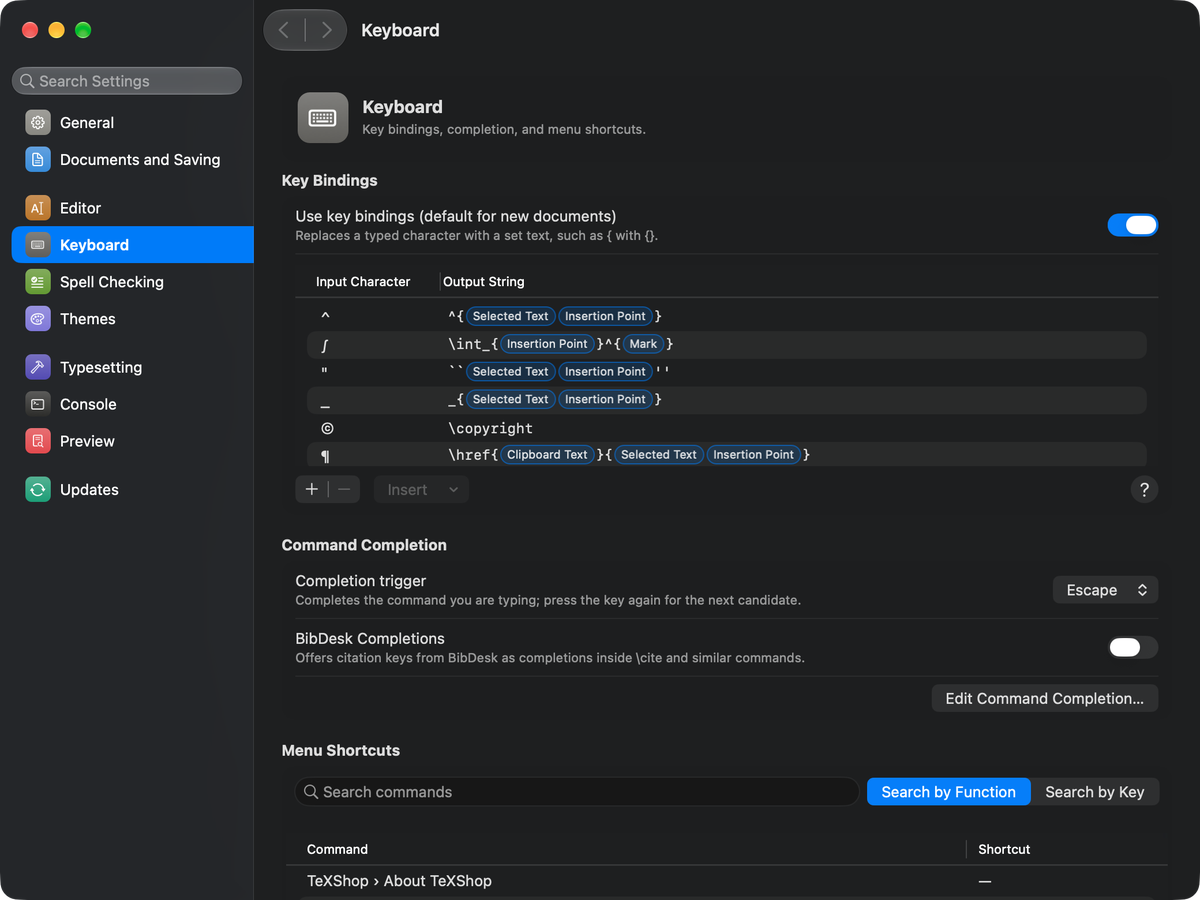
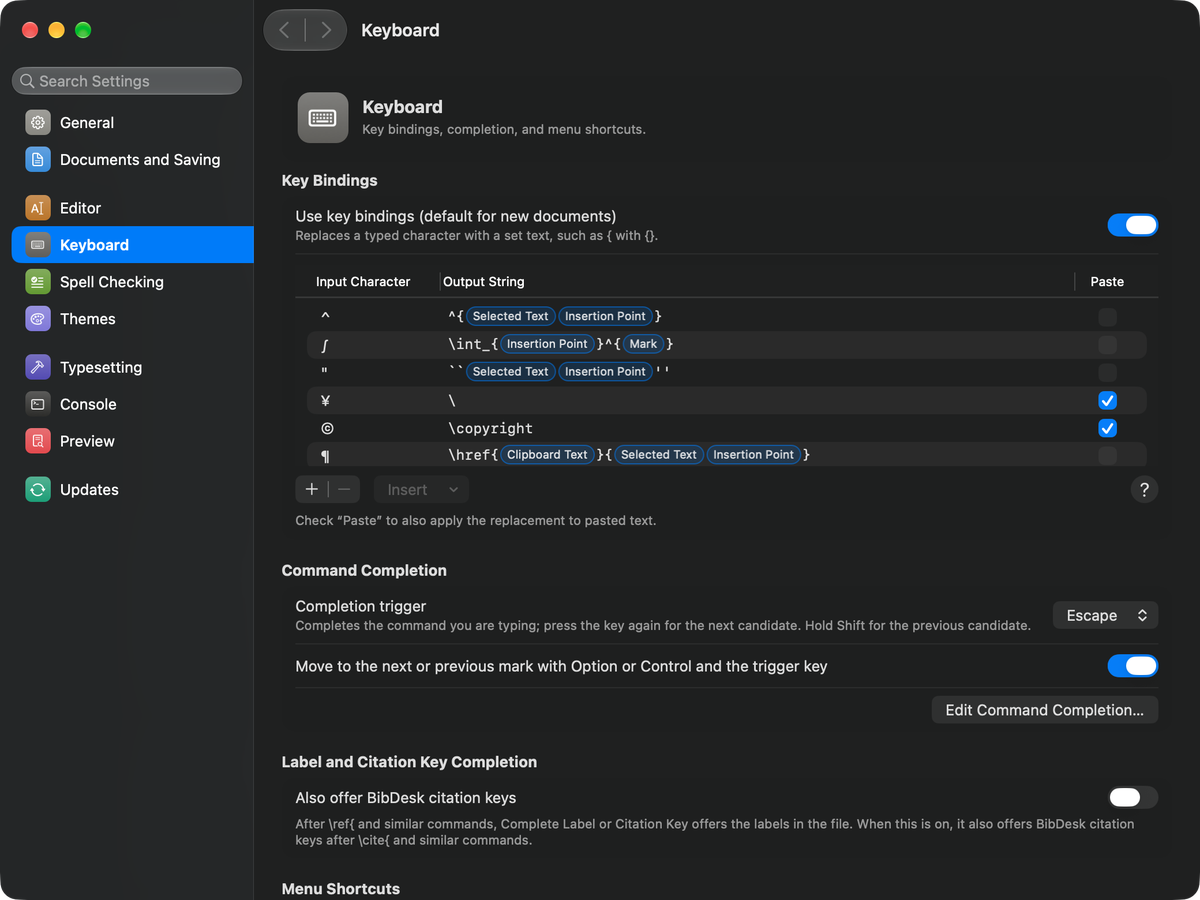
Retake the key bindings pictures of What's New with the Paste column
The list in Settings › Keyboard now has a Paste column and a note under it.

diff --git a/website/whats-new-ja.html b/website/whats-new-ja.html
@@ -11,7 +11,7 @@
 <nav class="whats-new-contents" aria-label="目次"><ul><li><a href="#settings">新しく設計し直された設定画面</a></li><li><a href="#shortcuts">あらゆるキーバインドをカスタマイズ</a></li><li><a href="#spell-checking">LaTeXの構文を考慮するスペルチェック</a></li><li><a href="#find-panel">新しい検索パネル</a></li><li><a href="#multiple-replace">複数置換</a></li><li><a href="#texroot-search">同じ親ファイルを持つファイル群の一括検索・置換</a></li><li><a href="#status-bar">ステータスバーを新設</a></li><li><a href="#detect-paths">TeXとGhostscriptのパスを自動で設定</a></li><li><a href="#engine-profiles">エンジンのプロファイル機能</a></li><li><a href="#line-numbers">行番号で行を選択</a></li><li><a href="#look">新しいアイコン</a></li><li><a href="#other-changes">そのほかの変更</a></li><li><a href="#changes-in-behavior">以前の版から変わった動き</a></li></ul></nav>
 <section class="feature-list" aria-label="主な変更">
 <article class="feature" id="settings"><div class="feature-text"><h2>新しく設計し直された設定画面</h2><p>サイドバーと検索欄を備えた、新しい設定画面になりました。</p></div><figure><img class="shot-light" src="assets/whats-new/ja/settings.png" width="600" height="450" alt="分類のサイドバーと「一般」を示す設定画面"><img loading="lazy" class="shot-dark" src="assets/whats-new/ja/settings-dark.png" width="600" height="450" alt="分類のサイドバーと「一般」を示す設定画面"></figure></article>
-<article class="feature" id="shortcuts"><div class="feature-text"><h2>あらゆるキーバインドをカスタマイズ</h2><p>メニューとマクロのショートカット、キーバインドを自由にカスタマイズできます。</p></div><figure><img class="shot-light" src="assets/whats-new/ja/menu-shortcuts.png" width="600" height="450" alt="「タイプセット」で探したメニューのショートカットの一覧" loading="lazy"><img class="shot-dark" src="assets/whats-new/ja/menu-shortcuts-dark.png" width="600" height="450" alt="「タイプセット」で探したメニューのショートカットの一覧" loading="lazy"><figcaption>メニューのショートカット</figcaption></figure><figure><img class="shot-light" src="assets/whats-new/ja/key-bindings.png" width="600" height="450" alt="選択中の文字列や出力後のカーソル位置を入れたキーバインドの一覧" loading="lazy"><img class="shot-dark" src="assets/whats-new/ja/key-bindings-dark.png" width="600" height="450" alt="選択中の文字列や出力後のカーソル位置を入れたキーバインドの一覧" loading="lazy"><figcaption>キーバインド</figcaption></figure><figure><img class="shot-light" src="assets/release-notes/ja/macro-editor.png" width="585" height="452" alt="マクロの一覧をサイドバーに置き、プレースホルダを札で示すTeXのマクロと、Commandなしのショートカットを示すマクロエディタ" loading="lazy"><img class="shot-dark" src="assets/release-notes/ja/macro-editor-dark.png" width="585" height="452" alt="マクロの一覧をサイドバーに置き、プレースホルダを札で示すTeXのマクロと、Commandなしのショートカットを示すマクロエディタ" loading="lazy"><figcaption>マクロエディタ</figcaption></figure></article>
+<article class="feature" id="shortcuts"><div class="feature-text"><h2>あらゆるキーバインドをカスタマイズ</h2><p>メニューとマクロのショートカット、キーバインドを自由にカスタマイズできます。</p></div><figure><img class="shot-light" src="assets/whats-new/ja/menu-shortcuts.png" width="600" height="450" alt="「タイプセット」で探したメニューのショートカットの一覧" loading="lazy"><img class="shot-dark" src="assets/whats-new/ja/menu-shortcuts-dark.png" width="600" height="450" alt="「タイプセット」で探したメニューのショートカットの一覧" loading="lazy"><figcaption>メニューのショートカット</figcaption></figure><figure><img class="shot-light" src="assets/whats-new/ja/key-bindings.png" width="600" height="450" alt="選択中の文字列や出力後のカーソル位置を入れたキーバインドの一覧と、ペーストした文字列にも適用する行の「ペースト」のチェック" loading="lazy"><img class="shot-dark" src="assets/whats-new/ja/key-bindings-dark.png" width="600" height="450" alt="選択中の文字列や出力後のカーソル位置を入れたキーバインドの一覧と、ペーストした文字列にも適用する行の「ペースト」のチェック" loading="lazy"><figcaption>キーバインド</figcaption></figure><figure><img class="shot-light" src="assets/release-notes/ja/macro-editor.png" width="585" height="452" alt="マクロの一覧をサイドバーに置き、プレースホルダを札で示すTeXのマクロと、Commandなしのショートカットを示すマクロエディタ" loading="lazy"><img class="shot-dark" src="assets/release-notes/ja/macro-editor-dark.png" width="585" height="452" alt="マクロの一覧をサイドバーに置き、プレースホルダを札で示すTeXのマクロと、Commandなしのショートカットを示すマクロエディタ" loading="lazy"><figcaption>マクロエディタ</figcaption></figure></article>
 <article class="feature" id="spell-checking"><div class="feature-text"><h2>LaTeXの構文を考慮するスペルチェック</h2><p>TeXの命令や数式、コメントを飛ばして、本文だけをスペルチェックできます。</p></div><figure><img class="shot-light" src="assets/whats-new/ja/spell.png" width="519" height="560" alt="LaTeXのソースの本文で印の付いた2つの綴りの誤りと、「すべて変更」の欄に候補が入ったスペルのパネル" loading="lazy"><img class="shot-dark" src="assets/whats-new/ja/spell-dark.png" width="519" height="560" alt="LaTeXのソースの本文で印の付いた2つの綴りの誤りと、「すべて変更」の欄に候補が入ったスペルのパネル" loading="lazy"></figure></article>
 <article class="feature" id="find-panel"><div class="feature-text"><h2>新しい検索パネル</h2><p>正規表現を使える新しい検索パネルで、すべての一致を一覧にしたり、ハイライトしたりできます。</p></div><figure><img class="shot-light" src="assets/whats-new/ja/advanced-find.png" width="600" height="494" alt="正規表現を入れた新しい検索パネルと、すべての一致の一覧、ソースで強調された一致" loading="lazy"><img class="shot-dark" src="assets/whats-new/ja/advanced-find-dark.png" width="600" height="494" alt="正規表現を入れた新しい検索パネルと、すべての一致の一覧、ソースで強調された一致" loading="lazy"></figure></article>
 <article class="feature" id="multiple-replace"><div class="feature-text"><h2>複数置換</h2><p>検索と置換の組をいくつも登録して、まとめて置換できます。</p></div><figure><img class="shot-light" src="assets/release-notes/ja/multiple-replace.png" width="600" height="270" alt="検索と置換の組を4つ並べた複数置換の窓" loading="lazy"><img class="shot-dark" src="assets/release-notes/ja/multiple-replace-dark.png" width="600" height="269" alt="検索と置換の組を4つ並べた複数置換の窓" loading="lazy"></figure></article>

diff --git a/website/whats-new.html b/website/whats-new.html
@@ -11,7 +11,7 @@
 <nav class="whats-new-contents" aria-label="Contents"><ul><li><a href="#settings">A redesigned Settings window</a></li><li><a href="#shortcuts">Customize every shortcut and key binding</a></li><li><a href="#spell-checking">LaTeX-aware spell checking</a></li><li><a href="#find-panel">New Find panel</a></li><li><a href="#multiple-replace">Multiple Replace</a></li><li><a href="#texroot-search">Find and replace in all files with the same root file</a></li><li><a href="#status-bar">A new status bar</a></li><li><a href="#detect-paths">TeX and Ghostscript paths set automatically</a></li><li><a href="#engine-profiles">Engine profiles</a></li><li><a href="#line-numbers">Select lines by their numbers</a></li><li><a href="#look">New app icon</a></li><li><a href="#other-changes">Other changes</a></li><li><a href="#changes-in-behavior">Changes in behavior from earlier versions</a></li></ul></nav>
 <section class="feature-list" aria-label="Main changes">
 <article class="feature" id="settings"><div class="feature-text"><h2>A redesigned Settings window</h2><p>A new Settings window with a sidebar and a search field.</p></div><figure><img class="shot-light" src="assets/whats-new/en/settings.png" width="600" height="450" alt="The Settings window with its sidebar of categories and the General category"><img loading="lazy" class="shot-dark" src="assets/whats-new/en/settings-dark.png" width="600" height="450" alt="The Settings window with its sidebar of categories and the General category"></figure></article>
-<article class="feature" id="shortcuts"><div class="feature-text"><h2>Customize every shortcut and key binding</h2><p>Customize every menu and macro shortcut, and key bindings.</p></div><figure><img class="shot-light" src="assets/whats-new/en/menu-shortcuts.png" width="600" height="450" alt="The list of menu shortcuts found with Typeset" loading="lazy"><img class="shot-dark" src="assets/whats-new/en/menu-shortcuts-dark.png" width="600" height="450" alt="The list of menu shortcuts found with Typeset" loading="lazy"><figcaption>Menu shortcuts</figcaption></figure><figure><img class="shot-light" src="assets/whats-new/en/key-bindings.png" width="600" height="450" alt="The list of key bindings whose text holds the selected text and the insertion point" loading="lazy"><img class="shot-dark" src="assets/whats-new/en/key-bindings-dark.png" width="600" height="450" alt="The list of key bindings whose text holds the selected text and the insertion point" loading="lazy"><figcaption>Key bindings</figcaption></figure><figure><img class="shot-light" src="assets/release-notes/en/macro-editor.png" width="585" height="452" alt="The Macro Editor with its macros listed in a sidebar, a TeX macro whose placeholders are tokens, and a shortcut without Command" loading="lazy"><img class="shot-dark" src="assets/release-notes/en/macro-editor-dark.png" width="585" height="452" alt="The Macro Editor with its macros listed in a sidebar, a TeX macro whose placeholders are tokens, and a shortcut without Command" loading="lazy"><figcaption>Macro Editor</figcaption></figure></article>
+<article class="feature" id="shortcuts"><div class="feature-text"><h2>Customize every shortcut and key binding</h2><p>Customize every menu and macro shortcut, and key bindings.</p></div><figure><img class="shot-light" src="assets/whats-new/en/menu-shortcuts.png" width="600" height="450" alt="The list of menu shortcuts found with Typeset" loading="lazy"><img class="shot-dark" src="assets/whats-new/en/menu-shortcuts-dark.png" width="600" height="450" alt="The list of menu shortcuts found with Typeset" loading="lazy"><figcaption>Menu shortcuts</figcaption></figure><figure><img class="shot-light" src="assets/whats-new/en/key-bindings.png" width="600" height="450" alt="The list of key bindings whose text holds the selected text and the insertion point, with Paste checked for the rows also applied to pasted text" loading="lazy"><img class="shot-dark" src="assets/whats-new/en/key-bindings-dark.png" width="600" height="450" alt="The list of key bindings whose text holds the selected text and the insertion point, with Paste checked for the rows also applied to pasted text" loading="lazy"><figcaption>Key bindings</figcaption></figure><figure><img class="shot-light" src="assets/release-notes/en/macro-editor.png" width="585" height="452" alt="The Macro Editor with its macros listed in a sidebar, a TeX macro whose placeholders are tokens, and a shortcut without Command" loading="lazy"><img class="shot-dark" src="assets/release-notes/en/macro-editor-dark.png" width="585" height="452" alt="The Macro Editor with its macros listed in a sidebar, a TeX macro whose placeholders are tokens, and a shortcut without Command" loading="lazy"><figcaption>Macro Editor</figcaption></figure></article>
 <article class="feature" id="spell-checking"><div class="feature-text"><h2>LaTeX-aware spell checking</h2><p>Check the spelling of the text alone, skipping TeX commands, mathematics and comments.</p></div><figure><img class="shot-light" src="assets/whats-new/en/spell.png" width="519" height="560" alt="Two misspelled words marked in the prose of a LaTeX source, and the spelling panel with a suggestion in the Change All field" loading="lazy"><img class="shot-dark" src="assets/whats-new/en/spell-dark.png" width="519" height="560" alt="Two misspelled words marked in the prose of a LaTeX source, and the spelling panel with a suggestion in the Change All field" loading="lazy"></figure></article>
 <article class="feature" id="find-panel"><div class="feature-text"><h2>New Find panel</h2><p>A new Find panel with regular expressions lists or highlights every match.</p></div><figure><img class="shot-light" src="assets/whats-new/en/advanced-find.png" width="600" height="494" alt="The new Find panel with a regular expression and the list of all matches, and the matches highlighted in the source" loading="lazy"><img class="shot-dark" src="assets/whats-new/en/advanced-find-dark.png" width="600" height="494" alt="The new Find panel with a regular expression and the list of all matches, and the matches highlighted in the source" loading="lazy"></figure></article>
 <article class="feature" id="multiple-replace"><div class="feature-text"><h2>Multiple Replace</h2><p>Save sets of find and replace pairs and apply them all at once.</p></div><figure><img class="shot-light" src="assets/release-notes/en/multiple-replace.png" width="600" height="270" alt="The Multiple Replace window with a set of four find and replace pairs" loading="lazy"><img class="shot-dark" src="assets/release-notes/en/multiple-replace-dark.png" width="600" height="269" alt="The Multiple Replace window with a set of four find and replace pairs" loading="lazy"></figure></article>
